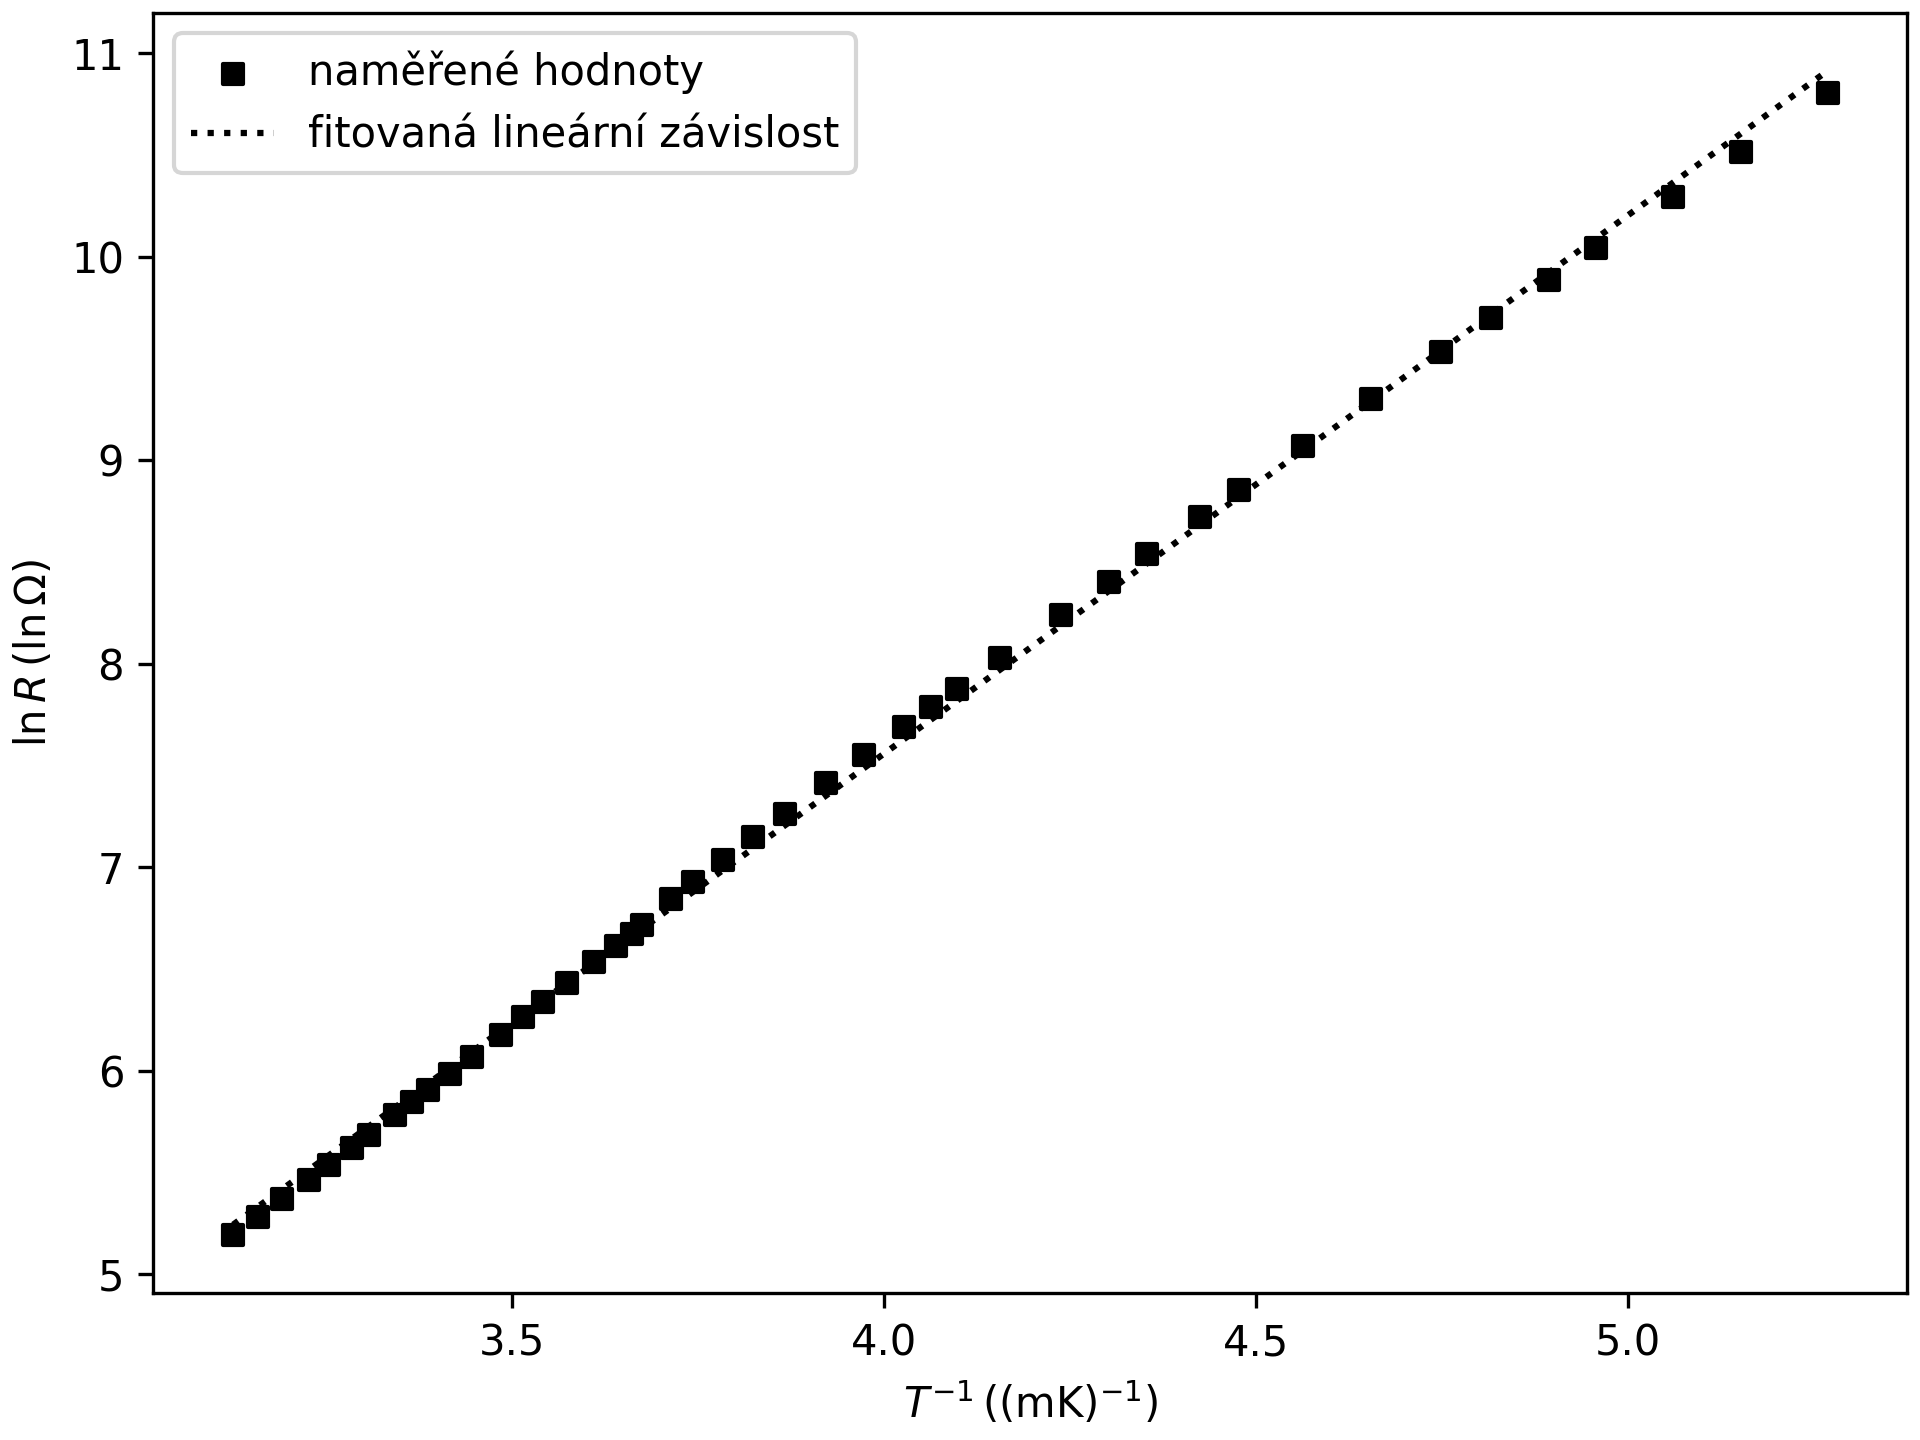
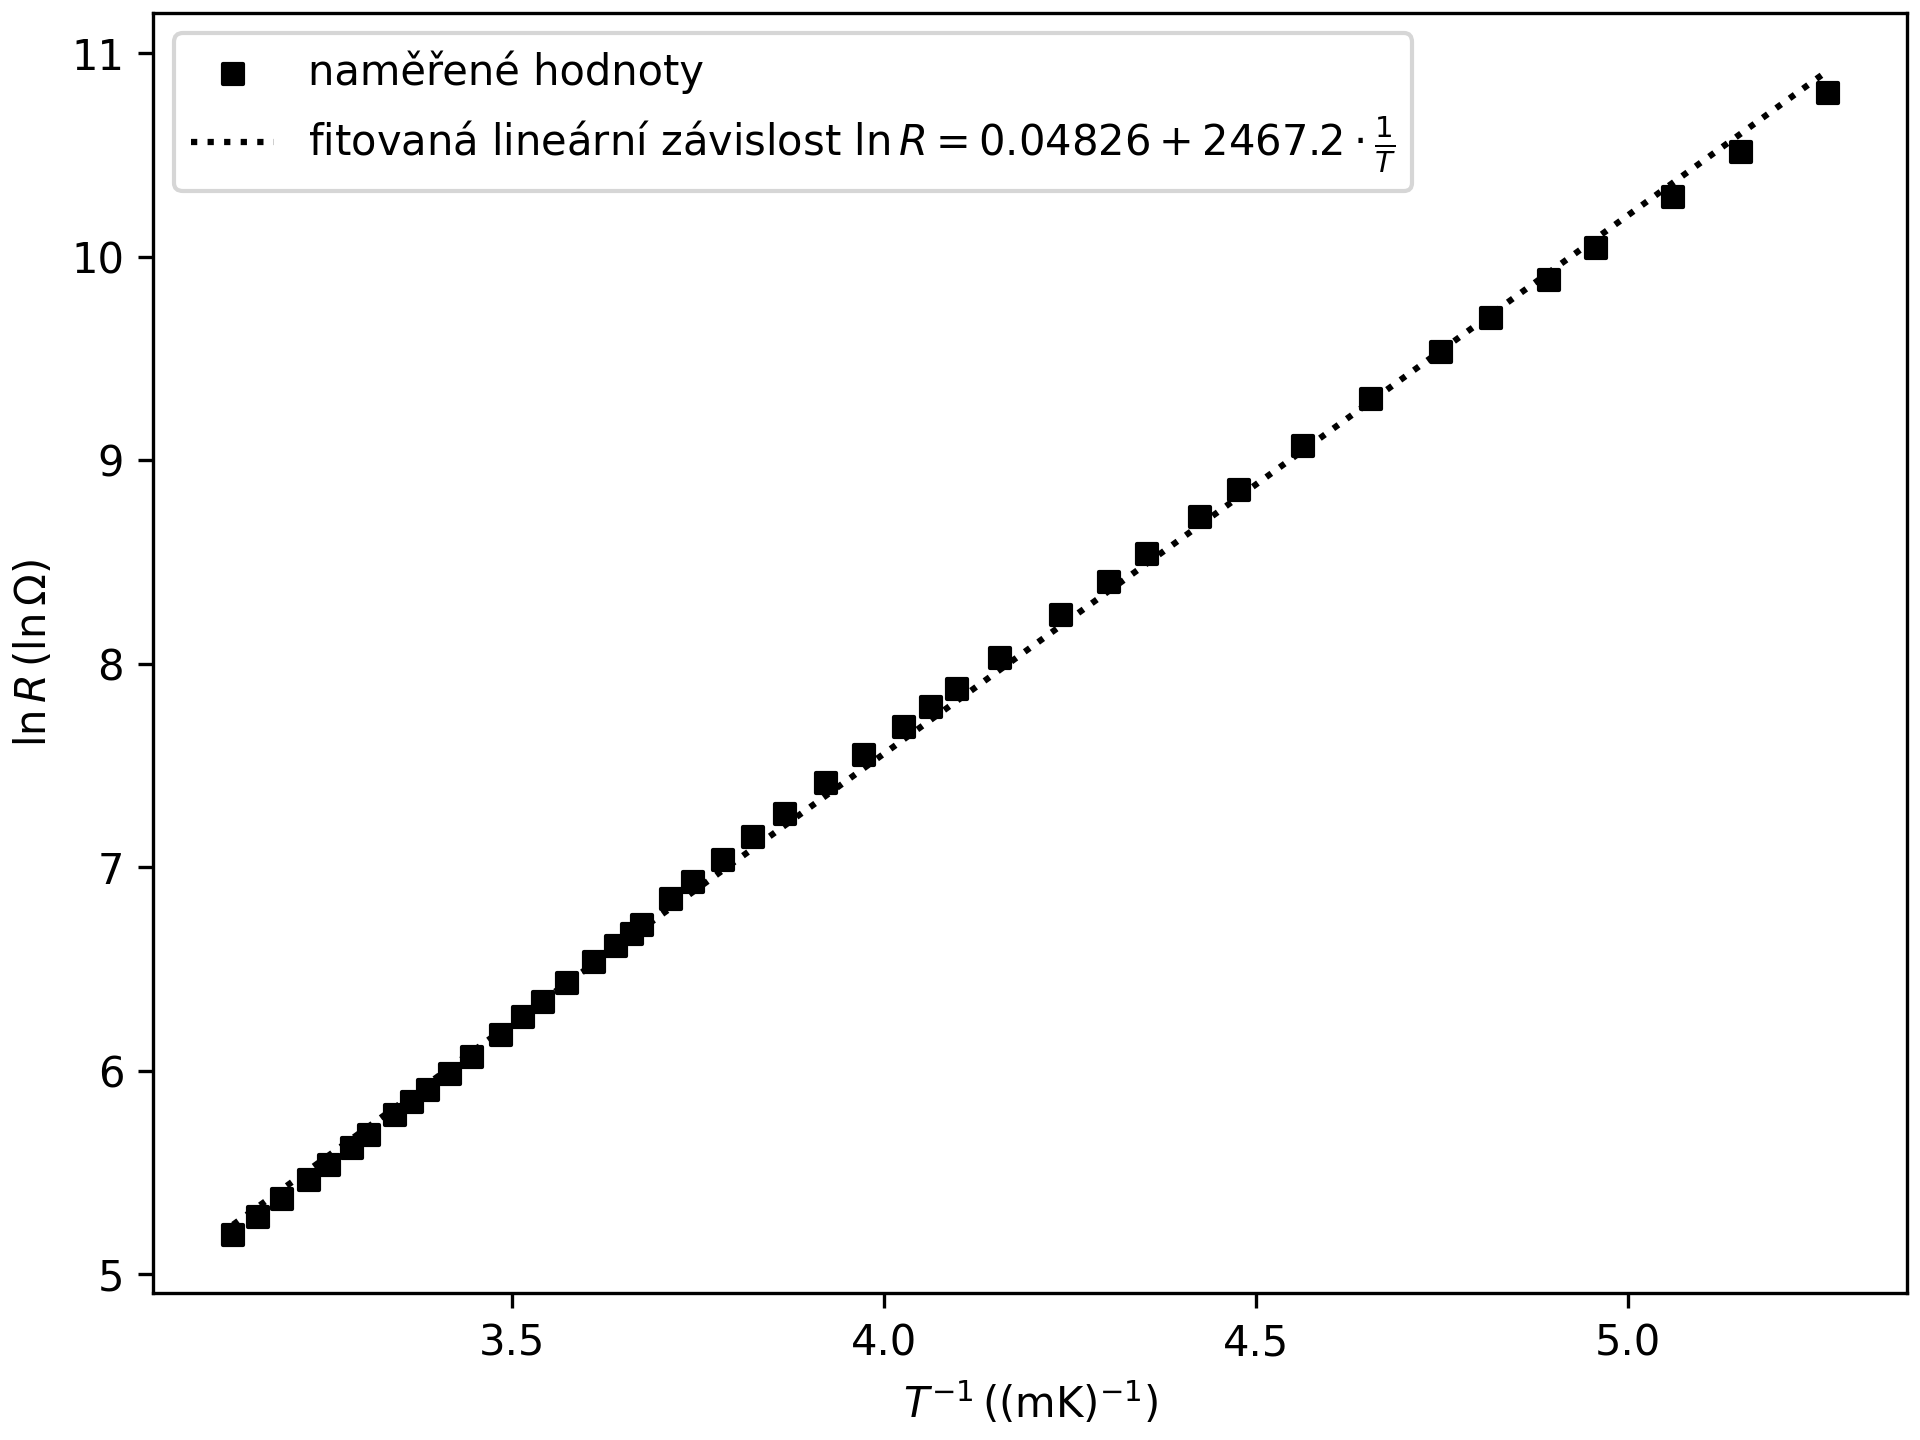
f

Changed region(s): [[0.0938, 0.0625, 0.6875, 0.125], [0.7188, 0.0625, 0.75, 0.125]]

diff --git a/code9.py b/code9.py
@@ -92,7 +92,7 @@ rel2 = pr.Rel(oneovert, lnr, pr.F.linear)
 fig2, ax2 = plt.subplots(layout = 'constrained')
 rel2.plot_data(ax2, err=(0,0))
 rel2.fit()
-rel2.plot_fit(ax2, label='fitovaná lineární závislost')
+rel2.plot_fit(ax2, label='fitovaná lineární závislost $\\ln R = 0.04826 + 2467.2 \cdot \\frac{1}{T}$')
 ax2.legend()
 fig2.savefig('uloha9/rt.png', dpi=300)
 #plt.close(fig2)
@@ -122,7 +122,7 @@ t0 = t0 + 273.15
 tm = b / 2 * (1 - unp.sqrt(1 - 4 * t0.unc / b.unc))
 print('tm:', tm)
 print(b / unp.log(u.val[idxmax] / i.val[idxmax] / rinf.val[0] * 1000))
-print(b, u.val[idxmax], i.val[idxmax], rinf.val[0])
+print(b, u.unc[idxmax], i.unc[idxmax], rinf.unc[0])
 
 #plt.show()
 
